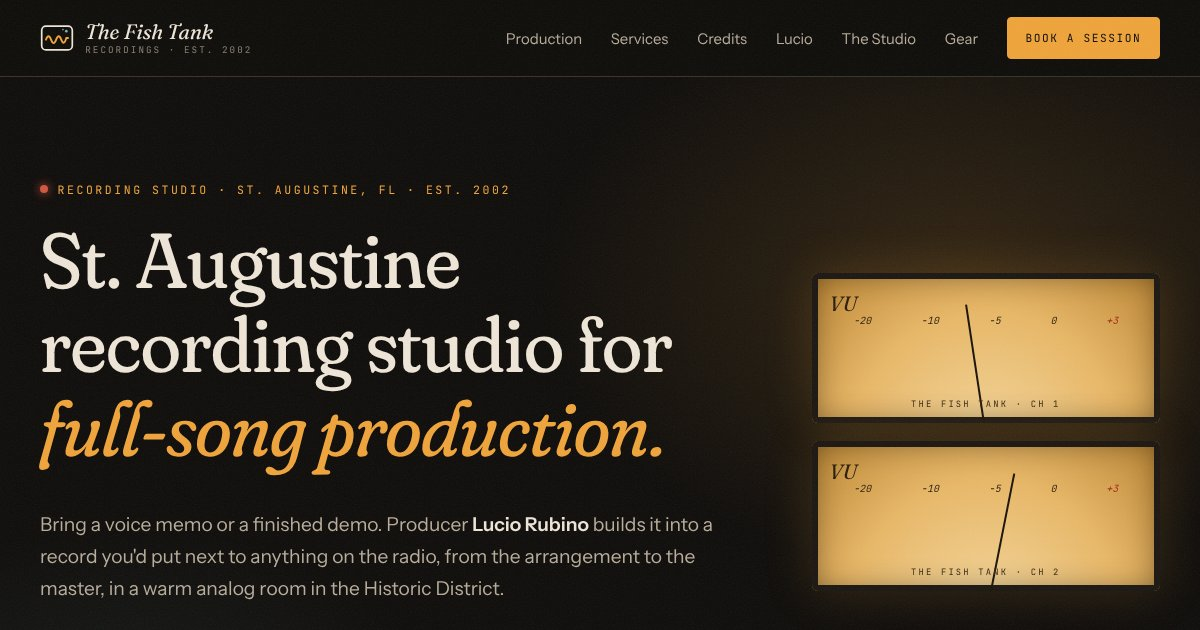
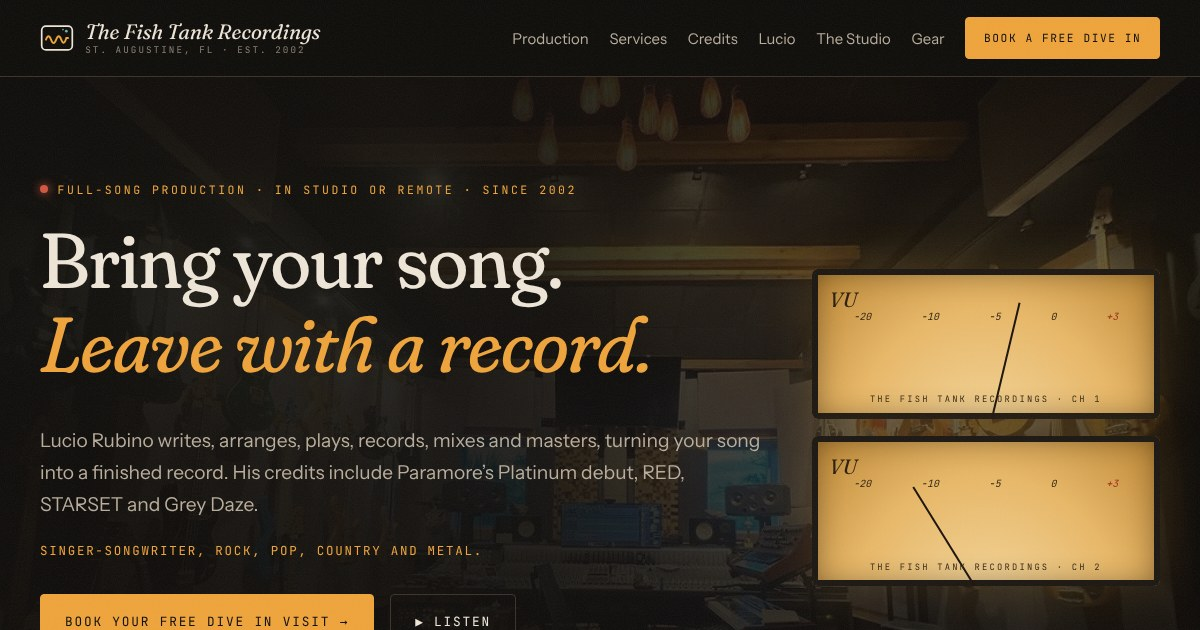
Use the full name 'The Fish Tank Recordings' everywhere
Logo, page titles, copy, image alt text, VU meter labels, schema
shortName, and a fresh social share image (the old one showed the old
name, headline and 'Book a session').

Claude-Session: https://claude.ai/code/session_01TsdbZ8zuMUmYWZfZnDuggs

diff --git a/src/styles/global.css b/src/styles/global.css
@@ -1,4 +1,4 @@
-/* ── The Fish Tank: moody vintage analog, modern chill ── */
+/* ── The Fish Tank Recordings: moody vintage analog, modern chill ── */
 :root {
   --ink: #0e0c0a;          /* control room at 2am */
   --ink-2: #16130f;

diff --git a/src/data/site.ts b/src/data/site.ts
@@ -6,7 +6,7 @@
 
 export const business = {
   name: 'The Fish Tank Recordings',
-  shortName: 'The Fish Tank',
+  shortName: 'The Fish Tank Recordings',
   owner: 'Lucio "Lu" Rubino',
   founded: 2002,
   street: '24 Althea Street',
